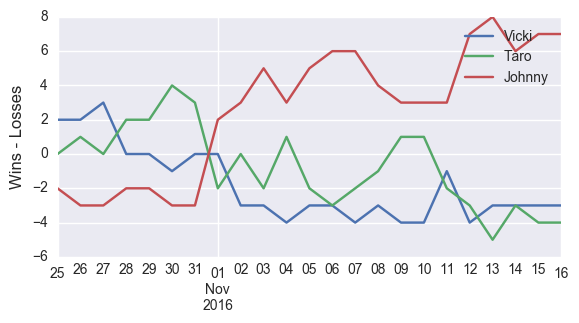
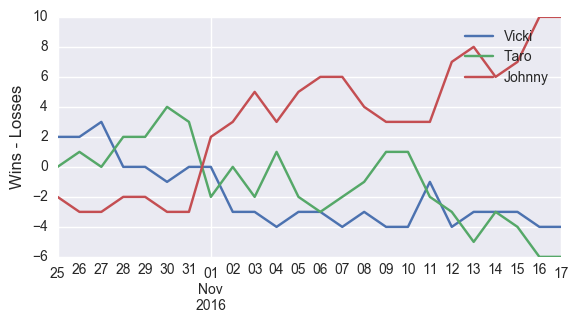
update 11/17

diff --git a/index.html b/index.html
@@ -35,7 +35,7 @@
 <a id="the-bet-is-on" class="anchor" href="#the-bet-is-on" aria-hidden="true"><span aria-hidden="true" class="octicon octicon-link"></span></a>The bet is on.</h1>
 
 <h1>
-<a id="current-winner-of-2016-17-season" class="anchor" href="#current-winner-of-2016-17-season" aria-hidden="true"><span aria-hidden="true" class="octicon octicon-link"></span></a>Current winner of 2016-17 Season (as of 11/16/2016):</h1>
+<a id="current-winner-of-2016-17-season" class="anchor" href="#current-winner-of-2016-17-season" aria-hidden="true"><span aria-hidden="true" class="octicon octicon-link"></span></a>Current winner of 2016-17 Season (as of 11/17/2016):</h1>
 
 <h2>
 <a id="none" class="anchor" href="#none" aria-hidden="true"><span aria-hidden="true" class="octicon octicon-link"></span></a><strong>Johnny</strong>
@@ -44,23 +44,23 @@
 <h2>
 <a id="johnny" class="anchor" href="#johnny" aria-hidden="true"><span aria-hidden="true" class="octicon octicon-link"></span></a>Johnny</h2>
 
-<p>Wins: 56<br>
-Losses: 49<br>
-Remaining wins available: 606</p>
+<p>Wins: 61<br>
+Losses: 51<br>
+Remaining wins available: 600</p>
 
 <h2>
 <a id="taro" class="anchor" href="#taro" aria-hidden="true"><span aria-hidden="true" class="octicon octicon-link"></span></a>Taro</h2>
 
-<p>Wins: 50<br>
-Losses: 54<br>
-Remaining wins available: 605</p>
+<p>Wins: 53<br>
+Losses: 59<br>
+Remaining wins available: 599</p>
 
 <h2>
 <a id="vicki" class="anchor" href="#vicki" aria-hidden="true"><span aria-hidden="true" class="octicon octicon-link"></span></a>Vicki</h2>
 
-<p>Wins: 51<br>
-Losses: 54<br>
-Remaining wins available: 607</p>
+<p>Wins: 54<br>
+Losses: 58<br>
+Remaining wins available: 602</p>
 
 <img src='pythoncode/win_percent.png' alt='Winning Percentage Over Time'>
 <h1>
